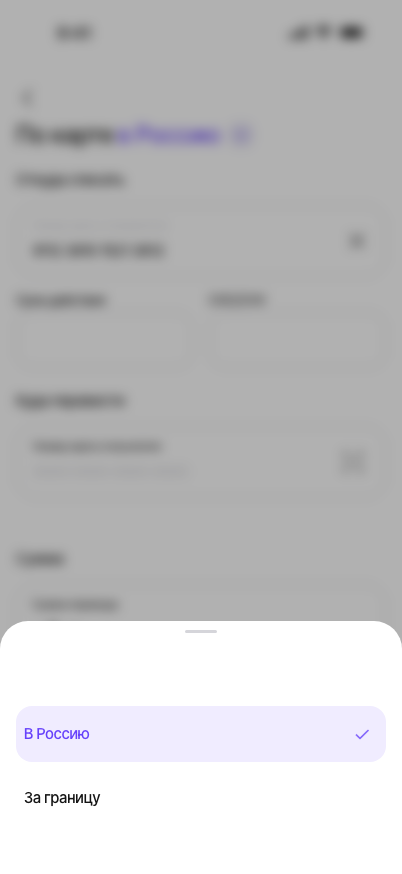
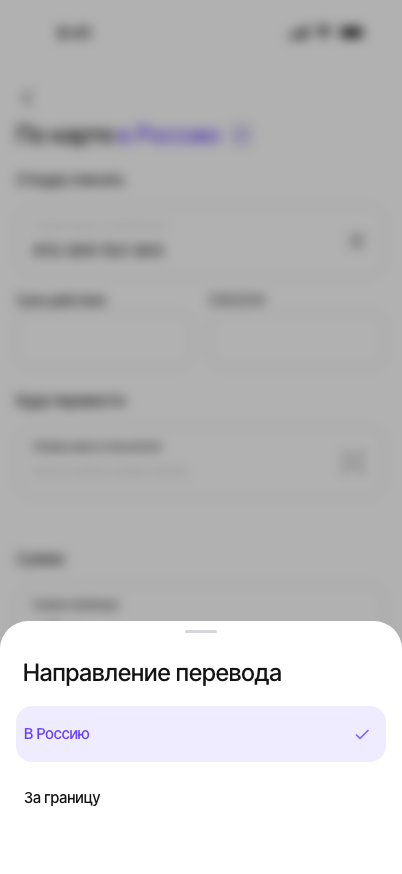
Restore direction sheet heading from Figma

Changed region(s): [[0.0597, 0.7414, 0.4179, 0.8032], [0.4478, 0.7414, 0.6866, 0.8032]]

diff --git a/src/guest-transfer.js b/src/guest-transfer.js
@@ -10,8 +10,8 @@ export function createGuestTransfer({ onBack, onHome = onBack, onTransfers = onB
   screen.querySelector('h1').innerHTML='<span>По карте <button type="button" class="guest-direction-trigger" aria-haspopup="dialog" aria-expanded="false"><span class="guest-direction-label">в Россию</span><span class="guest-direction-icon" aria-hidden="true"><img src="./assets/images/guest-direction-chevron.svg" alt=""></span></button></span>';
   const sheet=document.createElement('dialog');
   sheet.className='guest-direction-sheet';
-  sheet.setAttribute('aria-label','Направление перевода');
-  sheet.innerHTML='<img class="direction-sheet-handle" src="./assets/images/direction-sheet-handle.svg" alt=""><button type="button" data-direction="russia" class="direction-choice is-selected" aria-pressed="true"><span>В Россию</span><img class="direction-selected-mark" src="./assets/images/direction-sheet-check.svg" alt=""></button><button type="button" data-direction="abroad" class="direction-choice" aria-pressed="false"><span>За границу</span><img class="direction-selected-mark" src="./assets/images/direction-sheet-check.svg" alt="" hidden></button>';
+  sheet.setAttribute('aria-labelledby','guest-direction-sheet-title');
+  sheet.innerHTML='<img class="direction-sheet-handle" src="./assets/images/direction-sheet-handle.svg" alt=""><h2 id="guest-direction-sheet-title" class="direction-sheet-title">Направление перевода</h2><button type="button" data-direction="russia" class="direction-choice is-selected" aria-pressed="true"><span>В Россию</span><img class="direction-selected-mark" src="./assets/images/direction-sheet-check.svg" alt=""></button><button type="button" data-direction="abroad" class="direction-choice" aria-pressed="false"><span>За границу</span><img class="direction-selected-mark" src="./assets/images/direction-sheet-check.svg" alt="" hidden></button>';
   screen.append(sheet);
   const trigger=screen.querySelector('.guest-direction-trigger');
   const close=()=>sheet.close();

diff --git a/src/styles.css b/src/styles.css
@@ -1355,3 +1355,4 @@ body:has(.guest-direction-sheet[open]) { overflow:hidden; }
 @media(max-width:375px) {
   .guest-international-transfer .guest-transfer-title { font-size:clamp(20px,6vw,24px); }
 }
+.guest-direction-sheet .direction-sheet-title { position:absolute; left:23px; top:37px; margin:0; color:#141414; font:500 24px/29px 'Inter Tight',sans-serif; }
